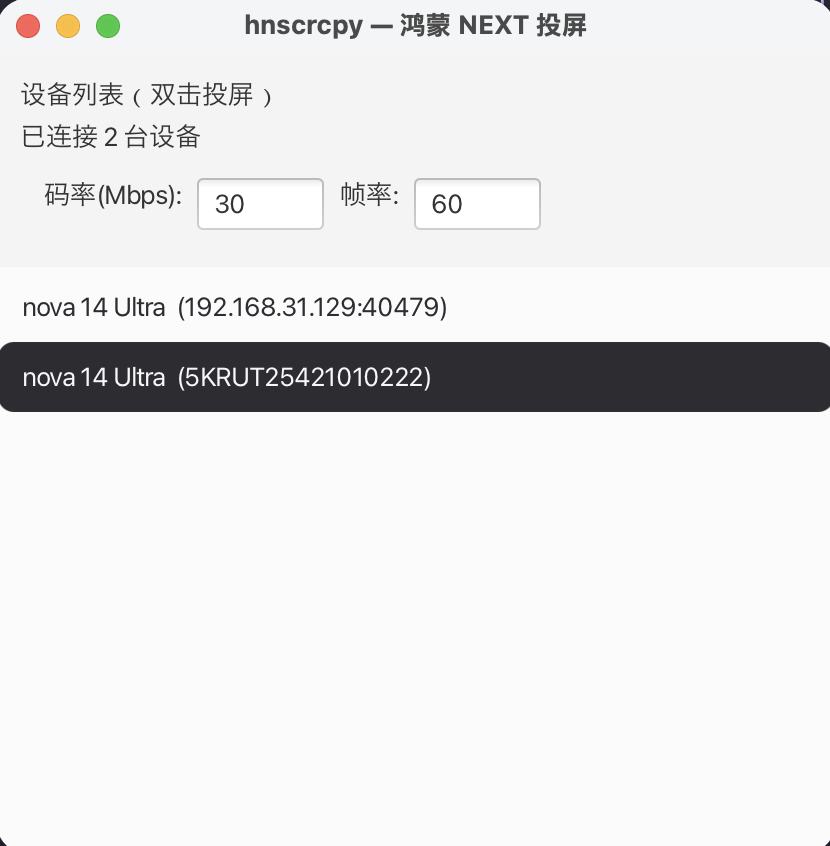
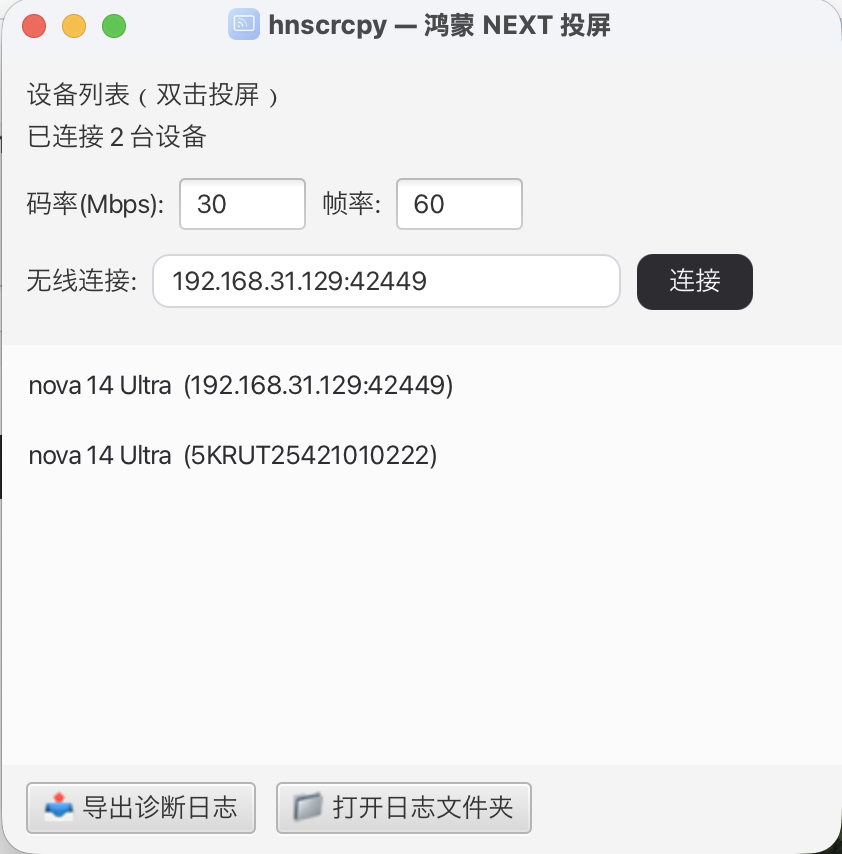
feat: 主界面无线连接输入框（IP:端口一键 tconn）+ v1.0.2 版本说明与截图更新

diff --git a/src/main/java/com/hnscrcpy/ui/MainView.java b/src/main/java/com/hnscrcpy/ui/MainView.java
@@ -84,6 +84,26 @@ public class MainView {
                 -fx-cursor: hand;
             }
             .diag-badge:pressed { -fx-background-color: #b23527; }
+            /* 无线连接行：圆角输入框 + 深色胶囊按钮，与整体设计语言一致 */
+            .wireless-field {
+                -fx-background-color: #ffffff;
+                -fx-background-radius: 8;
+                -fx-border-color: #d5d5dc;
+                -fx-border-radius: 8;
+                -fx-border-width: 1;
+                -fx-padding: 4 8 4 8;
+            }
+            .wireless-field:focused { -fx-border-color: #2c2c31; }
+            .connect-btn {
+                -fx-background-color: #2c2c31;
+                -fx-text-fill: #f7f7f9;
+                -fx-background-radius: 8;
+                -fx-padding: 5 16 5 16;
+                -fx-cursor: hand;
+            }
+            .connect-btn:hover { -fx-background-color: #45454d; }
+            .connect-btn:pressed { -fx-background-color: #1e1e22; }
+            .connect-btn:disabled { -fx-background-color: #a9a9b0; }
             """;
 
     private final BorderPane root = new BorderPane();
@@ -92,10 +112,15 @@ public class MainView {
     private final Label statusLabel = new Label("正在检测设备…");
     private final TextField bitRateField = new TextField("30");
     private final TextField fpsField = new TextField("60");
+    private final TextField wirelessField = new TextField();
+    private final Button connectBtn = new Button("连接");
     private final Consumer<DeviceInfo> onSelect;
+    /** 无线连接回调：输入 ip:port，返回 null 表示成功，否则返回错误信息。在后台线程调用。 */
+    private final java.util.function.Function<String, String> wirelessConnector;
 
-    public MainView(Consumer<DeviceInfo> onSelect) {
+    public MainView(Consumer<DeviceInfo> onSelect, java.util.function.Function<String, String> wirelessConnector) {
         this.onSelect = onSelect;
+        this.wirelessConnector = wirelessConnector;
         deviceList.getStyleClass().add("device-list");
         root.getStylesheets().add(UiStyles.dataUrl(LIST_CSS));
         deviceList.setCellFactory(lv -> new ListCell<>() {
@@ -155,7 +180,19 @@ public class MainView {
         settings.setAlignment(Pos.CENTER_LEFT);
         // header 已有统一的 12px 外边距，这里只留垂直间距，保证与上面两行左对齐
         settings.setPadding(new Insets(8, 0, 8, 0));
-        VBox header = new VBox(4, new Label("设备列表（双击投屏）"), statusLabel, settings);
+
+        // 无线连接行：码率行下方，输入 IP:端口 一键 hdc tconn
+        wirelessField.setPromptText("IP:端口，如 192.168.1.100:10123");
+        wirelessField.setPrefColumnCount(18);
+        wirelessField.getStyleClass().add("wireless-field");
+        connectBtn.getStyleClass().add("connect-btn");
+        connectBtn.setOnAction(e -> connectWireless());
+        wirelessField.setOnAction(e -> connectWireless());
+        HBox wireless = new HBox(8, new Label("无线连接:"), wirelessField, connectBtn);
+        wireless.setAlignment(Pos.CENTER_LEFT);
+        VBox.setMargin(wireless, new Insets(0, 0, 8, 0));
+
+        VBox header = new VBox(4, new Label("设备列表（双击投屏）"), statusLabel, settings, wireless);
         header.setPadding(new Insets(12));
 
         Button exportBtn = new Button("📤 导出诊断日志");
@@ -205,6 +242,64 @@ public class MainView {
     public void applyConfig(int bitRateMbps, int fps) {
         bitRateField.setText(String.valueOf(bitRateMbps));
         fpsField.setText(String.valueOf(fps));
+    }
+
+    /** 回填上次使用的无线连接地址（来自用户配置）。 */
+    public void setWirelessAddr(String addr) {
+        if (addr != null && !addr.isBlank()) {
+            wirelessField.setText(addr.trim());
+        }
+    }
+
+    /** 校验并后台执行 hdc tconn；成功后设备轮询会自动把设备加入列表。 */
+    private void connectWireless() {
+        String addr = wirelessField.getText().trim();
+        if (addr.isEmpty()) {
+            statusLabel.setText("请输入 IP:端口");
+            return;
+        }
+        String err = validateAddr(addr);
+        if (err != null) {
+            statusLabel.setText(err);
+            return;
+        }
+        connectBtn.setDisable(true);
+        statusLabel.setText("正在连接 " + addr + " …");
+        Thread t = new Thread(() -> {
+            String failure = wirelessConnector.apply(addr);
+            javafx.application.Platform.runLater(() -> {
+                connectBtn.setDisable(false);
+                if (failure == null) {
+                    statusLabel.setText("已连接 " + addr + "，设备列表稍后自动刷新");
+                } else {
+                    statusLabel.setText("连接失败: " + failure);
+                }
+            });
+        }, "wireless-connect");
+        t.setDaemon(true);
+        t.start();
+    }
+
+    /** 地址校验：host:port，host 允许 IPv4 / 主机名，端口 1-65535。合法返回 null。 */
+    static String validateAddr(String addr) {
+        int idx = addr.lastIndexOf(':');
+        if (idx <= 0 || idx == addr.length() - 1) {
+            return "格式应为 IP:端口，如 192.168.1.100:10123";
+        }
+        String host = addr.substring(0, idx);
+        String port = addr.substring(idx + 1);
+        if (!host.matches("[A-Za-z0-9.\\-]+")) {
+            return "IP 地址格式不正确: " + host;
+        }
+        try {
+            int p = Integer.parseInt(port);
+            if (p < 1 || p > 65535) {
+                return "端口超出范围 (1-65535): " + port;
+            }
+        } catch (NumberFormatException e) {
+            return "端口格式不正确: " + port;
+        }
+        return null;
     }
 
     // ---- 诊断导出 ----

diff --git a/src/test/java/com/hnscrcpy/ui/MainViewAddrTest.java b/src/test/java/com/hnscrcpy/ui/MainViewAddrTest.java
@@ -1,0 +1,49 @@
+package com.hnscrcpy.ui;
+
+import org.junit.jupiter.api.DisplayName;
+import org.junit.jupiter.api.Test;
+
+import static org.assertj.core.api.Assertions.assertThat;
+
+/**
+ * MainView.validateAddr 纯静态校验测试（不初始化 JavaFX 控件）。
+ *
+ * @Author: taxiao
+ * WeChat：他晓
+ * CSDN:http://blog.csdn.net/yin13753884368/article
+ * Github:https://github.com/taxiao213
+ */
+class MainViewAddrTest {
+
+    @Test
+    @DisplayName("valid IPv4:port and hostname:port pass")
+    void validAddresses() {
+        assertThat(MainView.validateAddr("192.168.1.100:10123")).isNull();
+        assertThat(MainView.validateAddr("10.0.0.1:1")).isNull();
+        assertThat(MainView.validateAddr("phone.local:5555")).isNull();
+    }
+
+    @Test
+    @DisplayName("missing host/port/separator rejected")
+    void malformedAddresses() {
+        assertThat(MainView.validateAddr("192.168.1.100")).isNotNull();
+        assertThat(MainView.validateAddr(":10123")).isNotNull();
+        assertThat(MainView.validateAddr("192.168.1.100:")).isNotNull();
+        assertThat(MainView.validateAddr("")).isNotNull();
+    }
+
+    @Test
+    @DisplayName("port range and format rejected")
+    void portValidation() {
+        assertThat(MainView.validateAddr("192.168.1.100:0")).isNotNull();
+        assertThat(MainView.validateAddr("192.168.1.100:65536")).isNotNull();
+        assertThat(MainView.validateAddr("192.168.1.100:abc")).isNotNull();
+    }
+
+    @Test
+    @DisplayName("invalid host characters rejected")
+    void hostValidation() {
+        assertThat(MainView.validateAddr("19 2.168.1.1:8080")).isNotNull();
+        assertThat(MainView.validateAddr("手机:8080")).isNotNull();
+    }
+}

diff --git a/src/main/java/com/hnscrcpy/util/AppConfig.java b/src/main/java/com/hnscrcpy/util/AppConfig.java
@@ -25,6 +25,7 @@ public final class AppConfig {
 
     private final Path file;
     private String lastSerial = "";
+    private String lastWirelessAddr = "";
     private int bitRateMbps = 30;
     private int fps = 60;
     private boolean noControl;
@@ -47,6 +48,7 @@ public final class AppConfig {
         try (InputStream in = Files.newInputStream(file)) {
             p.load(in);
             cfg.lastSerial = p.getProperty("lastSerial", "");
+            cfg.lastWirelessAddr = p.getProperty("lastWirelessAddr", "");
             cfg.bitRateMbps = parseInt(p.getProperty("bitRateMbps"), 30);
             cfg.fps = parseInt(p.getProperty("fps"), 60);
             cfg.noControl = Boolean.parseBoolean(p.getProperty("noControl", "false"));
@@ -67,6 +69,7 @@ public final class AppConfig {
     public void save() {
         Properties p = new Properties();
         p.setProperty("lastSerial", lastSerial);
+        p.setProperty("lastWirelessAddr", lastWirelessAddr);
         p.setProperty("bitRateMbps", String.valueOf(bitRateMbps));
         p.setProperty("fps", String.valueOf(fps));
         p.setProperty("noControl", String.valueOf(noControl));
@@ -86,6 +89,14 @@ public final class AppConfig {
 
     public void setLastSerial(String sn) {
         this.lastSerial = sn == null ? "" : sn;
+    }
+
+    public String lastWirelessAddr() {
+        return lastWirelessAddr;
+    }
+
+    public void setLastWirelessAddr(String addr) {
+        this.lastWirelessAddr = addr == null ? "" : addr;
     }
 
     public int bitRateMbps() {

diff --git a/src/main/java/com/hnscrcpy/App.java b/src/main/java/com/hnscrcpy/App.java
@@ -36,6 +36,7 @@ public class App extends Application {
     private DeviceMonitor monitor;
     private MainView mainView;
     private AppConfig config;
+    private HdcClient hdc;
     private boolean noControl;
     private boolean autoConnectDone;
     /** serial → 已打开的投屏窗口；同设备只允许一个会话（设备侧 scrcpy 单例）。 */
@@ -47,8 +48,10 @@ public class App extends Application {
         applyCliToConfig();
 
         HdcClient hdc = new HdcClient();
-        mainView = new MainView(this::onDeviceSelected);
+        this.hdc = hdc;
+        mainView = new MainView(this::onDeviceSelected, this::connectWireless);
         mainView.applyConfig(config.bitRateMbps(), config.fps());
+        mainView.setWirelessAddr(config.lastWirelessAddr());
         monitor = new DeviceMonitor(hdc, this::onDevicesChanged);
         monitor.start();
 
@@ -87,6 +90,20 @@ public class App extends Application {
                         });
             }
         });
+    }
+
+    /**
+     * 无线连接回调（MainView 后台线程调用）：执行 hdc tconn。
+     * 成功返回 null 并记住地址；失败返回错误信息。
+     */
+    private String connectWireless(String addr) {
+        HdcClient.TconnResult r = hdc.tconn(addr);
+        if (r.ok()) {
+            config.setLastWirelessAddr(addr);
+            config.save();
+            return null;
+        }
+        return r.message();
     }
 
     private void onDeviceSelected(DeviceInfo device) {

diff --git a/src/test/java/com/hnscrcpy/device/HdcClientTest.java b/src/test/java/com/hnscrcpy/device/HdcClientTest.java
@@ -100,6 +100,31 @@ class HdcClientTest {
     }
 
     @Test
+    @DisplayName("tconn builds hdc tconn command and reports ok/message")
+    void tconn_buildsCommand() {
+        List<List<String>> captured = new ArrayList<>();
+        HdcClient hdc = new HdcClient(Path.of("/opt/hdc"), (cmd, t) -> {
+            captured.add(cmd);
+            return new ProcessRunner.Result(0, "Connect OK\n", "", false, 10);
+        });
+        HdcClient.TconnResult r = hdc.tconn("192.168.1.100:10123");
+        assertThat(r.ok()).isTrue();
+        assertThat(r.message()).isEqualTo("Connect OK");
+        assertThat(captured.get(0)).containsExactly(
+                "/opt/hdc", "tconn", "192.168.1.100:10123");
+    }
+
+    @Test
+    @DisplayName("tconn failure carries hdc output as message")
+    void tconn_reportsFailure() {
+        HdcClient hdc = new HdcClient(Path.of("/opt/hdc"), (cmd, t) ->
+                new ProcessRunner.Result(1, "", "Error: connect failed\n", false, 10));
+        HdcClient.TconnResult r = hdc.tconn("10.0.0.9:9999");
+        assertThat(r.ok()).isFalse();
+        assertThat(r.message()).contains("connect failed");
+    }
+
+    @Test
     @DisplayName("isOnline checks listTargets with retry")
     void isOnline_checksTargets() {
         Scripted runner = new Scripted();

diff --git a/src/main/java/com/hnscrcpy/device/HdcClient.java b/src/main/java/com/hnscrcpy/device/HdcClient.java
@@ -100,6 +100,21 @@ public class HdcClient {
         return r.output().trim();
     }
 
+    /** 无线调试连接结果：ok 为 hdc 退出码，message 为输出或兜底提示。 */
+    public record TconnResult(boolean ok, String message) { }
+
+    /**
+     * 无线调试连接：hdc tconn &lt;ip:port&gt;。
+     * 成功后设备会以 ip:port 形式出现在 list targets，由设备轮询自动发现。
+     */
+    public TconnResult tconn(String addr) {
+        ProcessRunner.Result r = runner.run(List.of(hdc.toString(), "tconn", addr), 15);
+        String out = r.output().trim();
+        String message = out.isEmpty() ? (r.ok() ? "已发起连接" : "连接失败") : out;
+        log.info("tconn {}: {}", addr, message);
+        return new TconnResult(r.ok(), message);
+    }
+
     public boolean fport(String sn, int localPort, String remote) {
         ProcessRunner.Result r = runner.run(
                 List.of(hdc.toString(), "-t", sn, "fport", "tcp:" + localPort, remote), 15);

diff --git a/README.md b/README.md
@@ -45,6 +45,10 @@ Windows / macOS / Linux 窗口，并用键鼠远程操作。
 
 **无线调试**：手机与电脑处于同一 WLAN。
 
+**方式一（推荐）：界面内直接连接** — 主界面码率/帧率下方的「无线连接」输入框填入手机显示的 `IP:端口`，点「连接」（或按回车）。连接成功后设备列表自动出现，地址会记住供下次使用。
+
+**方式二：命令行连接**：
+
 1. 手机：设置 → WLAN / 更多连接 → **无线调试**，开启后记下页面显示的 `IP:端口`
 2. 电脑执行（hnscrcpy 内置 hdc，位于 `~/.hnscrcpy/tools/<平台>/hdc`，或使用系统 hdc）：
 
@@ -103,17 +107,17 @@ hnscrcpy --no-control          # 只看不控
 
 ## 状态
 
-**v1.0.2（2026-10-20）**：M0–M6 全部完成，真机验证通过。新增键盘输入 / 中文输入（⌘I 文本对话框）/ 剪贴板粘贴到手机；详见 [docs/RELEASE_NOTES_v1.0.2.md](docs/RELEASE_NOTES_v1.0.2.md)。
+**v1.0.2（2026-10-21）**：M0–M6 全部完成，真机验证通过。新增键盘输入 / 中文输入（⌘I 文本对话框）/ 剪贴板粘贴到手机 / 无线连接输入框；详见 [docs/RELEASE_NOTES_v1.0.2.md](docs/RELEASE_NOTES_v1.0.2.md)。
 
 - 视频管线：gRPC 流 → avcodec 多线程直解 → 环形缓冲零拷贝渲染，高负载实测 50–57fps 零丢帧
 - 远控：触摸/鼠标/滚轮/按键（uitest 通道 + uinput）真机验证，横竖屏坐标自适应
 - 打包：jpackage（dmg/exe/deb），GitHub Actions 四平台 CI，tag 触发自动发布
-- 测试：86 个单元测试（UI/会话装配层由真机冒烟验证）
+- 测试：117 个单元测试（UI/会话装配层由真机冒烟验证）
 
 ## 已知限制
 
 - 视频恒为设备原始分辨率（自适应降采样仅作用于渲染输出）
-- 不支持模拟器（127.0.0.1:5555 等网络设备）；真机支持 USB 与无线调试两种连接
+- 不支持鸿蒙模拟器；真机支持 USB 与无线调试两种连接（无线可在主界面输入 `IP:端口` 直接连接）
 - 音频转发暂不支持（hosScrcpy 无音频通道）
 
 ## 开源许可

diff --git a/docs/RELEASE_NOTES_v1.0.2.md b/docs/RELEASE_NOTES_v1.0.2.md
@@ -7,6 +7,7 @@
 - **电脑键盘输入**：投屏窗口聚焦后直接打字，英文/数字实时注入手机当前输入框（最后点击处）；Enter / 退格 / Tab / 方向键走 uinput 注入
 - **中文输入（「输入文本…」对话框，⌘I）**：呼出独立文本框，完整支持中文输入法组词/选字与 ⌘V 粘贴，支持多行编辑预览，回车整段发送。投屏画面控件的 IME 直打受 JavaFX 非文本控件管线限制，中文/长文本请走此对话框
 - **剪贴板粘贴到手机（⌘V）**：复制电脑上的文本 → 点击投屏画面 → ⌘V 或工具条「粘贴到输入框」按钮，整段注入设备输入框；Win/Linux 为 Ctrl+V
+- **无线连接输入框**：主界面码率/帧率下方新增「无线连接」行，填入手机无线调试页显示的 `IP:端口`，点「连接」（或回车）即可发起连接，成功后设备列表自动出现该设备；地址自动记忆，下次启动回填，无需再手敲 `hdc tconn` 命令
 - 新增文本注入基础设施 `TextInjector`（150ms 攒批、换行拆段段间回车、单引号转义、超长分片）与键盘转发器 `KeyInputForwarder`（⌘/Ctrl 组合键不拦截，既有快捷键不受影响）
 - 诊断日志新增文本注入失败事件（TEXT_INJECT_FAILED），便于反馈问题
 
@@ -25,7 +26,7 @@
 
 ## ⚠ 已知不足
 
-- **不支持鸿蒙模拟器**（仅支持 USB 真机连接）
+- **不支持鸿蒙模拟器**（真机支持 USB 与无线调试两种连接方式；无线连接可在主界面输入 `IP:端口` 直接发起，也可用 `hdc tconn` 命令行连接）
 - **不支持音频转发**（投屏组件无音频通道，仅画面+远控）
 - **手机 → 电脑剪贴板暂不支持**：鸿蒙对剪贴板文本读取做了隐私限制，shell 层无公开通道（写入方向已通过文本注入实现）
 - ESCAPE / 方向键的 uinput 键值为文档值未真机标定，异常时请运行 `scripts/spike-text-inject.sh` 标定
